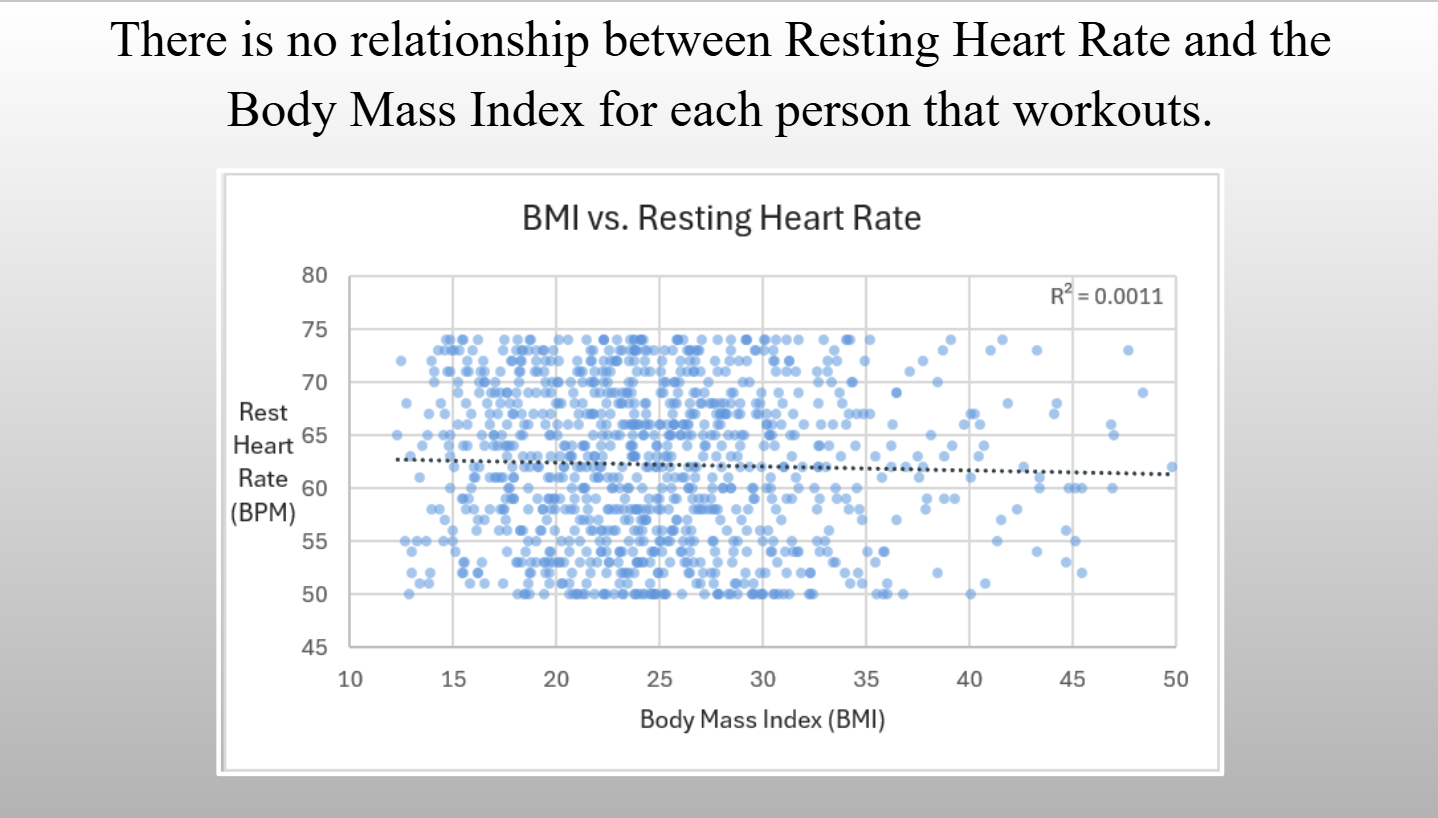
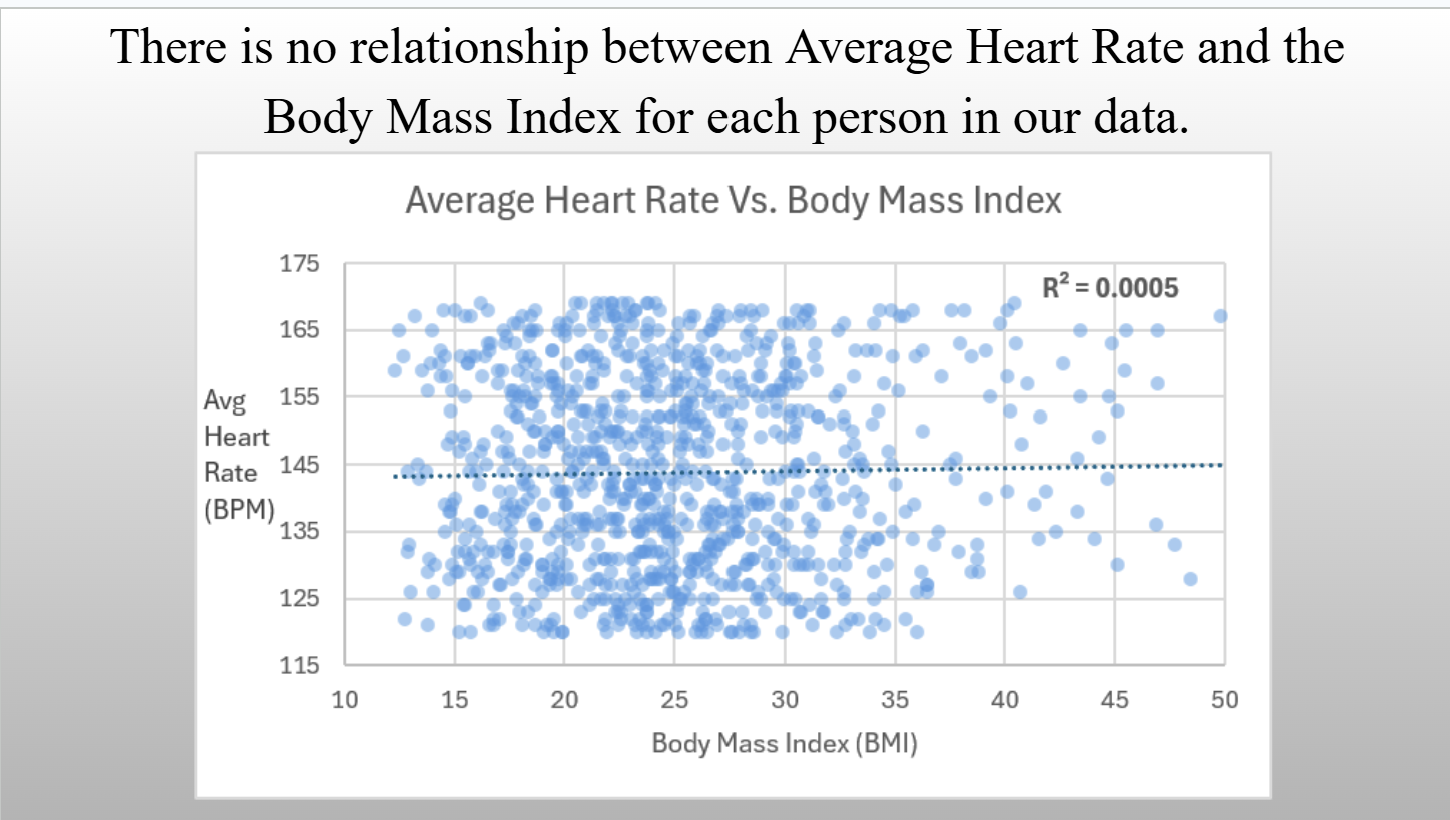
[commit description]

Changed region(s): [[0.1224, 0.2139, 0.8873, 0.978], [0.0, 0.0, 1.0, 0.1834]]

diff --git a/docs/posts/Data Visualization/index.html b/docs/posts/Data Visualization/index.html
@@ -160,11 +160,11 @@ ul.task-list li input[type="checkbox"] {
 <figcaption>We chose this question because understanding how people’s body works when exercising can be highly dependent factors such as age, body mass index, what workouts are being done, and how many calories are burned in correlation to these factors.In Excel, we created a Pivot Table using the columns “Age” and “RestingBPM”. We set Age as the rows and the average of RestingBPM as values, and created a time series plot highlighting the PivotTable.We found that although there are some fluctuations in resting heart rate through ages 30-45, the average resting heart rate remains relatively stable throughout.We used the time series plot from Excel and added it to our slide. We then included a statement explaining that the average resting heart rate remains stable throughout all ages in the sample.</figcaption>
 </figure>
 </div>
-<p>2.Is there a pattern between body mass index (BMI) and resting heart rate?</p>
+<p>2.2.Is there a pattern between body mass index (BMI) and average heart rate?</p>
 <div class="quarto-figure quarto-figure-center">
 <figure class="figure">
 <p><img src="Slide2.png" class="img-fluid figure-img"></p>
-<figcaption>We wanted to see whether people with a higher BMI have a higher resting heart rate, since a heavier body might make the heart work harder even at rest. We used the BMI and Resting_BPM columns to create a scatter plot, with BMI on the x-axis and resting heart rate on the y-axis, because both variables are continuous. I added a trendline and displayed the R^2 value to measure how much of the variation in resting heart rate BMI explains. We then formatted the chart by adjusting the axes, adding titles, and shrinking and adding transparency to the markers so the overlapping points were easier to see. We concluded there is no meaningful relationship between BMI and resting heart rate in our dataset. The points form an evenly spread cloud, and the trendline is almost flat, with an R^2 value of 0.0011, meaning BMI explains only about 0.1% of the variation in resting heart rate. Average resting heart rate stayed around 62 BPM across all BMI levels. We placed the scatter plot from Excel on the slide and wrote an assertion statement at the top: “There is no relationship between Resting Heart Rate and the Body Mass Index for each person in our data.” The chart serves as the evidence, with the flat trendline and R^2 value showing the result.</figcaption>
+<figcaption>We wanted to see whether people with a higher BMI have a higher average heart rate, since a heavier body might make the heart work harder. We used the BMI and Avg_BPM columns to create a scatter plot, with BMI on the x-axis and average heart rate on the y-axis, because both variables are continuous. We added a trendline and displayed the R^2 value to measure how much of the variation in average heart rate BMI explains. We then formatted the chart by adjusting the axes, adding titles, and shrinking and adding transparency to the markers so the overlapping points were easier to see. We concluded there is no meaningful relationship between BMI and average heart rate in our dataset. The points form an evenly spread cloud of points, and the trendline is almost flat, with an R^2 value of 0.0005, meaning BMI explains only about 0.05% of the variation in average heart rate. We placed the scatter plot from Excel on the slide and wrote an assertion statement at the top stating: “There is no relationship between Average Heart Rate and the Body Mass Index for each person in our data.” The chart serves as the evidence, with the flat trendline and R^2 value showing the result.</figcaption>
 </figure>
 </div>
 <p>3.Does workout type have a strong correlation with calories burned?</p>

diff --git a/docs/projects.html b/docs/projects.html
@@ -251,7 +251,7 @@ Oct 1, 2026
 </div>
 </div></a>
 </div>
-<div class="g-col-1" data-index="2" data-listing-date-sort="1794549600000" data-listing-file-modified-sort="1794611859447" data-listing-date-modified-sort="NaN" data-listing-reading-time-sort="4" data-listing-word-count-sort="734">
+<div class="g-col-1" data-index="2" data-listing-date-sort="1794549600000" data-listing-file-modified-sort="1795372507017" data-listing-date-modified-sort="NaN" data-listing-reading-time-sort="4" data-listing-word-count-sort="722">
 <a href="./posts/Data Visualization/index.html" class="quarto-grid-link">
 <div class="quarto-grid-item card h-100 card-left">
 <p class="card-img-top"><img loading='lazy' src="posts\Data Visualization\Slide1.png" style="height: 150px;"  class="thumbnail-image card-img"/></p>
